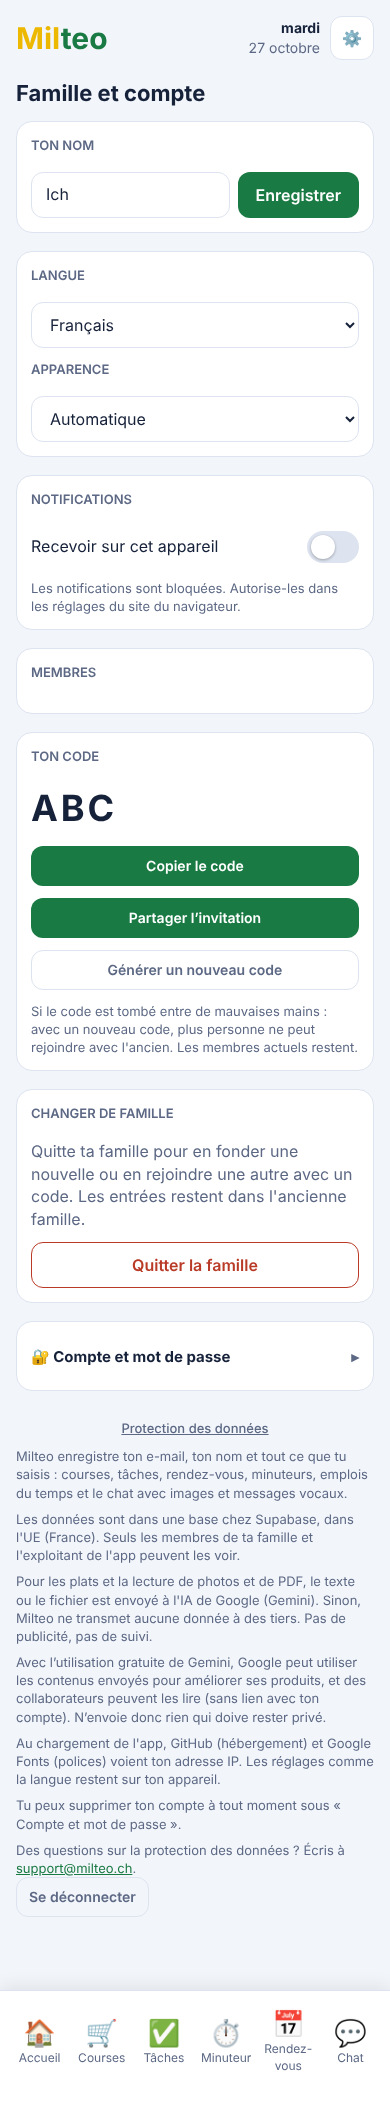
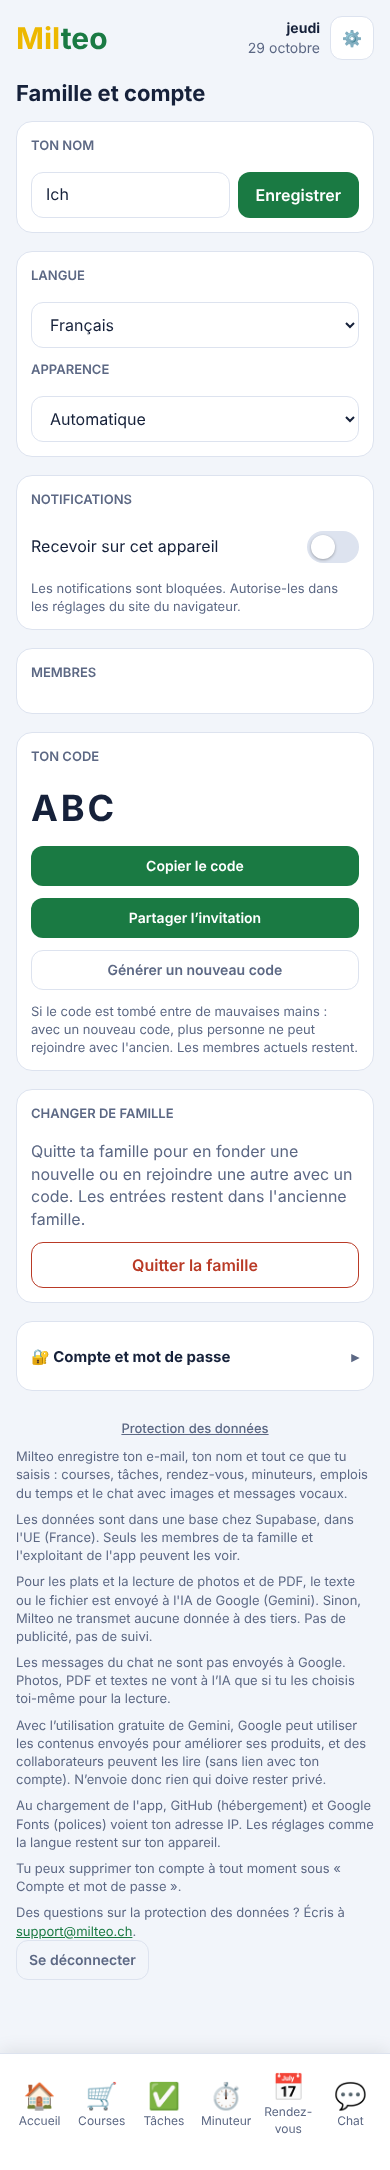
KI-Upload: Einwilligung vor erstem Foto/PDF, Datenschutztext ergänzt
Claude-Session: https://claude.ai/code/session_017jd6qMoayf2hqt6XYe68pU

diff --git a/i18n.js b/i18n.js
@@ -395,6 +395,9 @@
     ['Abmelden …', 'Одјавување …', 'Déconnexion …', 'Disconnessione …', 'Odjavljivanje …', 'Duke dalë …', 'Çıkış yapılıyor …', 'Logging out …'],
     ['Rezept neu erstellen', 'Создај го рецептот повторно', 'Recréer la recette', 'Crea di nuovo la ricetta', 'Ponovo napravi recept', 'Krijo recetën përsëri', 'Tarifi yeniden oluştur', 'Recreate recipe'],
     ['Rezept neu erstellen? Die abgehakten Schritte gehen dabei verloren.', 'Рецептот да се создаде повторно? Штиклираните чекори ќе се изгубат.', 'Recréer la recette ? Les étapes cochées seront perdues.', 'Creare di nuovo la ricetta? I passaggi spuntati andranno persi.', 'Ponovo napraviti recept? Označeni koraci će se izgubiti.', 'Ta krijosh recetën përsëri? Hapat e shënuar humbasin.', 'Tarif yeniden oluşturulsun mu? İşaretlenen adımlar kaybolur.', 'Recreate the recipe? The ticked steps will be lost.'],
+    ['Die Datei wird zum Lesen an Google (Gemini) gesendet. Google kann sie auch zur Verbesserung seiner Produkte verwenden. Lade nichts Privates hoch. Jetzt senden?', 'Датотеката се испраќа до Google (Gemini) за читање. Google може да ја користи и за подобрување на своите производи. Не качувај ништо приватно. Да испратам?', 'Le fichier est envoyé à Google (Gemini) pour être lu. Google peut aussi l’utiliser pour améliorer ses produits. Ne mets rien de privé. Envoyer maintenant ?', 'Il file viene inviato a Google (Gemini) per essere letto. Google può usarlo anche per migliorare i suoi prodotti. Non caricare nulla di privato. Inviare ora?', 'Datoteka se šalje Google-u (Gemini) radi čitanja. Google je može koristiti i za poboljšanje svojih proizvoda. Ne otpremaj ništa privatno. Poslati sada?', 'Skedari dërgohet te Google (Gemini) për t’u lexuar. Google mund ta përdorë edhe për të përmirësuar produktet e tij. Mos ngarko asgjë private. Ta dërgoj tani?', 'Dosya okunmak üzere Google’a (Gemini) gönderilir. Google bunu ürünlerini geliştirmek için de kullanabilir. Özel bir şey yükleme. Şimdi gönderilsin mi?', 'The file is sent to Google (Gemini) to be read. Google may also use it to improve its products. Don’t upload anything private. Send now?'],
+    ['Nachrichten im Chat werden nicht an Google gesendet. Fotos, PDFs und Texte gehen nur an die KI, wenn du sie selbst zum Lesen auswählst.', 'Пораките во четот не се испраќаат до Google. Фотографии, PDF и текстови одат до вештачката интелигенција само ако сам ги избереш за читање.', 'Les messages du chat ne sont pas envoyés à Google. Photos, PDF et textes ne vont à l’IA que si tu les choisis toi-même pour la lecture.', 'I messaggi della chat non vengono inviati a Google. Foto, PDF e testi vanno all’IA solo se li scegli tu per la lettura.', 'Poruke u četu se ne šalju Google-u. Fotografije, PDF-ovi i tekstovi idu veštačkoj inteligenciji samo ako ih sam izabereš za čitanje.', 'Mesazhet në bisedë nuk dërgohen te Google. Fotot, PDF-të dhe tekstet shkojnë te inteligjenca artificiale vetëm nëse i zgjedh vetë për lexim.', 'Sohbet mesajları Google’a gönderilmez. Fotoğraflar, PDF’ler ve metinler yalnızca okunması için kendin seçtiğinde yapay zekâya gider.', 'Chat messages are not sent to Google. Photos, PDFs and texts only go to the AI when you choose them yourself to be read.'],
+    ['Abgebrochen. Es wurde nichts gesendet.', 'Откажано. Ништо не е испратено.', 'Annulé. Rien n’a été envoyé.', 'Annullato. Non è stato inviato nulla.', 'Otkazano. Ništa nije poslato.', 'Anuluar. Nuk u dërgua asgjë.', 'İptal edildi. Hiçbir şey gönderilmedi.', 'Cancelled. Nothing was sent.'],
     ['__end__', '', '', '', '', '', '', '']
   ];
   R.pop();

diff --git a/index.html b/index.html
@@ -692,6 +692,7 @@ input.switch:focus-visible { outline-offset: 3px; }
           <p class="hint">Milteo speichert deine E-Mail-Adresse, deinen Namen und alles, was du einträgst: Einkauf, Aufgaben, Termine, Timer, Stundenpläne und den Chat mit Bildern und Sprachnachrichten.</p>
           <p class="hint">Die Daten liegen in einer Datenbank bei Supabase in der EU (Frankreich). Sehen können sie nur die Mitglieder deiner Familie und der Betreiber der App.</p>
           <p class="hint">Für Gerichte und das Lesen von Fotos und PDFs wird der Text oder die Datei an die KI von Google (Gemini) gesendet. Sonst gibt Milteo keine Daten an Dritte weiter. Es gibt keine Werbung und kein Tracking.</p>
+          <p class="hint">Nachrichten im Chat werden nicht an Google gesendet. Fotos, PDFs und Texte gehen nur an die KI, wenn du sie selbst zum Lesen auswählst.</p>
           <p class="hint">Bei der kostenlosen Nutzung von Gemini darf Google die gesendeten Inhalte zur Verbesserung seiner Produkte verwenden, und Mitarbeitende können sie lesen (ohne Bezug zu deinem Konto). Sende deshalb nichts, was privat bleiben soll.</p>
           <p class="hint">Beim Laden der App sehen GitHub (Hosting) und Google Fonts (Schriftarten) deine IP-Adresse. Einstellungen wie die Sprache bleiben auf deinem Gerät.</p>
           <p class="hint">Du kannst dein Konto jederzeit unter «Konto &amp; Passwort» löschen.</p>
@@ -2397,6 +2398,11 @@ input.switch:focus-visible { outline-offset: 3px; }
     const name = (file.name || '').toLowerCase();
     const body = { mode: 'extract', what, today: ymd(new Date()) };
     if (what === 'events' && (name.endsWith('.ics') || file.type === 'text/calendar')) return { events: parseIcs(await file.text()) };
+    let okAi = false; try { okAi = localStorage.getItem('milteo_ai_ok') === '1'; } catch (_) {}
+    if (!okAi) {
+      if (!confirm(T('Die Datei wird zum Lesen an Google (Gemini) gesendet. Google kann sie auch zur Verbesserung seiner Produkte verwenden. Lade nichts Privates hoch. Jetzt senden?'))) return { error: 'cancel' };
+      try { localStorage.setItem('milteo_ai_ok', '1'); } catch (_) {}
+    }
     if ((file.type || '').startsWith('image/')) {
       const b = await shrinkImage(file, 2000);
       if (b.size > 4 * 1024 * 1024) return { error: 'big' };
@@ -2418,7 +2424,7 @@ input.switch:focus-visible { outline-offset: 3px; }
     if (err) return { error: err };
     return data || { error: 'ai_failed' };
   }
-  const extractMsg = (err) => err === 'big' ? T('Datei zu gross (max. 4 MB)') : err === 'limit' ? T('Tageslimit der KI erreicht') : err === 'quota' ? T('KI gerade ausgelastet, später nochmal') : T('Die Datei konnte nicht gelesen werden. Versuche ein deutlicheres Foto oder eine andere Datei.');
+  const extractMsg = (err) => err === 'cancel' ? T('Abgebrochen. Es wurde nichts gesendet.') : err === 'big' ? T('Datei zu gross (max. 4 MB)') : err === 'limit' ? T('Tageslimit der KI erreicht') : err === 'quota' ? T('KI gerade ausgelastet, später nochmal') : T('Die Datei konnte nicht gelesen werden. Versuche ein deutlicheres Foto oder eine andere Datei.');
 
   let importFound = [], importRemind = '15';
   function renderImport() {

diff --git a/tests/test_ki_einwilligung.py b/tests/test_ki_einwilligung.py
@@ -1,0 +1,33 @@
+import os
+HERE = os.path.dirname(os.path.abspath(__file__)); ROOT = os.path.dirname(HERE)
+URL = 'file://' + ROOT + '/index.html'
+from playwright.sync_api import sync_playwright
+stub = open(os.path.join(HERE, 'stub.js'), encoding='utf-8').read()
+ok = True
+def check(n, c):
+    global ok; ok = ok and bool(c); print(('PASS ' if c else 'FAIL ') + n)
+with sync_playwright() as p:
+    b = p.chromium.launch(); ctx = b.new_context(viewport={'width': 390, 'height': 780})
+    pg = ctx.new_page(); errs = []; pg.on('pageerror', lambda e: errs.append(str(e)))
+    msgs = []; accept = {'v': False}
+    def on_dialog(d):
+        msgs.append(d.message); (d.accept() if accept['v'] else d.dismiss())
+    pg.on('dialog', on_dialog)
+    pg.route('**/supabase.min.js', lambda r: r.fulfill(body=stub, content_type='text/javascript'))
+    pg.route('**/fonts.googleapis.com/**', lambda r: r.fulfill(body='', content_type='text/css'))
+    pg.add_init_script("window.__sess={user:{id:'me',email:'a@b.ch',user_metadata:{name:'Ich'}}}")
+    pg.goto(URL); pg.wait_for_timeout(1000)
+    pg.evaluate("window.__calls=0; sb.functions.invoke=async(n,o)=>{if(o&&o.body&&o.body.mode==='extract')window.__calls++; return {data:{events:[]}}}")
+    run = "(async()=>{const f=new File(['x'],'a.pdf',{type:'application/pdf'}); const r=await extractFrom(f,'events'); return r})()"
+    r = pg.evaluate(run)
+    check('Frage erscheint vor dem ersten Upload', len(msgs) == 1 and 'Google' in msgs[0])
+    check('Abgelehnt: nichts gesendet', r.get('error') == 'cancel' and pg.evaluate('window.__calls') == 0)
+    accept['v'] = True
+    r = pg.evaluate(run)
+    check('Zugestimmt: wird gesendet', pg.evaluate('window.__calls') == 1 and not r.get('error'))
+    r = pg.evaluate(run)
+    check('Frage kommt nicht nochmals', len(msgs) == 2 and pg.evaluate('window.__calls') == 2)
+    check('Datenschutz: Chat nicht an Google', 'Nachrichten im Chat werden nicht an Google gesendet' in pg.evaluate("document.getElementById('priv-body').textContent"))
+    check('Keine JS-Fehler', not errs); print(errs)
+    b.close()
+print('OK' if ok else 'FEHLER'); raise SystemExit(0 if ok else 1)

diff --git a/docs/BESTANDSBERICHT.md b/docs/BESTANDSBERICHT.md
@@ -110,4 +110,5 @@ Laut den Gemini-API-Bedingungen (ai.google.dev/terms, geprüft am 24.10.2026) da
 | Startseite für milteo.ch | `index.html`, `i18n.js` (31 neue Texte in 8 Sprachen), `milteo-video.mp4`, `milteo-video-poster.jpg`, `sw.js` | Neue Besucher sehen eine Werbeseite mit Beispielvideo, Funktionen, Schritten und Kontakt (support@milteo.ch); von dort Registrieren oder Anmelden. Installierte App, bekannte Nutzer, Einladungs- und Passwort-Links gehen direkt zur Anmeldung. Test `test_startseite.py` bestanden, Bildschirmfotos Handy und Computer geprüft. Das Video zeigt simulierte Daten. |
 | Benachrichtigung bei neuen Einträgen | `index.html`, `i18n.js`, Server-Funktion `notify` (Version 7), Datenbank: neue Spalte `push_subscriptions.n_change` (mit Freigabe) | Neuer Einkauf, neue Aufgabe, neuer Termin oder gestarteter Timer löst bei den anderen Familienmitgliedern eine Mitteilung aus (mit Namen). Pro Art (Einkauf, Aufgaben, Termine, Timer) höchstens eine Mitteilung innerhalb von 5 Minuten; gleichzeitig Hinzugefügtes (4 s) wird gebündelt. Eigener Schalter «Änderungen der Familie». Getestet: Browser-Test `test_benachrichtigung.py`; die Server-Funktion selbst und der echte Versand auf Handys sind noch nicht live geprüft. |
 | Rezept: Schritte merken, Temperatur und Zeit | `index.html`, `i18n.js`, Server-Funktion `dish` (Version 13) | Geöffnetes Rezept und abgehakte Schritte bleiben nach Neuladen/App-Update 7 Tage auf dem Gerät erhalten. Temperaturen und Zeiten werden in den Schritten hervorgehoben, dazu eine Zeile «Auf einen Blick». Neue Rezepte enthalten Temperatur und Zeit je Schritt (Vorheizen als erster Schritt). Bereits gespeicherte Rezepte bleiben unverändert, bis «Rezept neu erstellen» gewählt wird. Getestet: `test_rezept.py`; KI-Verhalten auf echtem Gerät noch nicht geprüft. |
+| KI-Einwilligung und Datenschutztext | `index.html`, `i18n.js` | Vor dem ersten Foto-/PDF-Upload (Termine, Stundenplan) einmalig Rückfrage, dass die Datei an Google (Gemini) geht; bei «Abbrechen» wird nichts gesendet. Datenschutztext ergänzt: Chat-Nachrichten gehen nicht an Google. Offen: bezahlte Gemini-Stufe aktivieren (Google-Konto), Datenschutztext danach anpassen. Getestet: `test_ki_einwilligung.py`. |
 | 12 Aufräumen und Tests | `index.html`, `tests/` (neu), `sw (1).js` gelöscht | Alle Testdateien laufen aus dem Projektordner und bestehen; Prüfer unverändert (nur Logo-Kontrast). Seitenaufbau: Anzahl öffnender und schliessender `<div>` jetzt gleich (83/83). **Nicht abgedeckt:** echte Geräte, Push, echte Supabase-Verbindung. |
